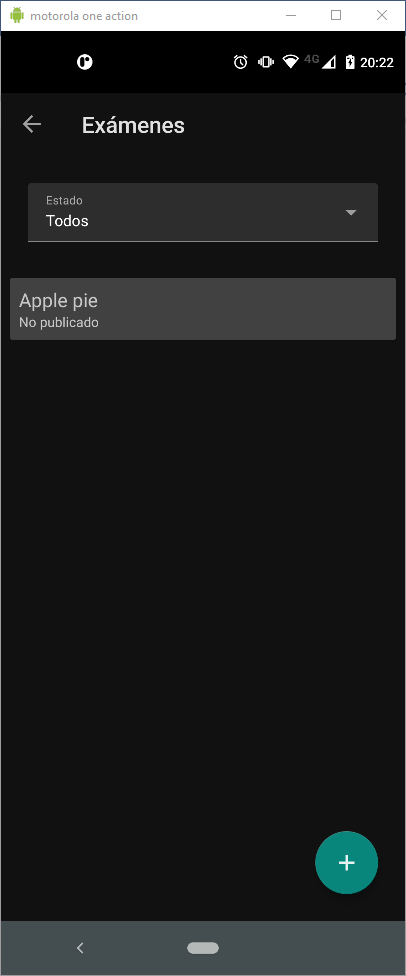
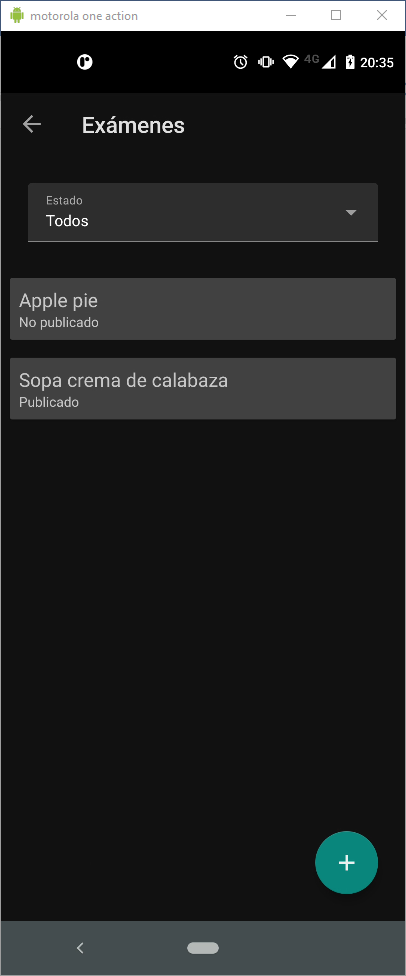
Add multiple descriptions 2

Changed region(s): [[0.0, 0.3689, 0.9754, 0.4303], [0.9458, 0.0615, 0.9754, 0.0922]]

diff --git a/index.md b/index.md
@@ -63,6 +63,18 @@ También se puede agregar colaboradores. Al presionar boton correspondiente se v
 
 ![login](/screenshots/add_collaborator.png)
 
-El creador del curso también puede crear exámenes a ser resueltos por estudiantes. Dirigiendose a la sección correspondiente, se listarán los exámenes creados para el curso.
+El creador del curso también puede crear exámenes a ser resueltos por estudiantes. Dirigiendose a la sección correspondiente, se listarán los exámenes creados para el curso, filtrados por su estado.
 
 ![login](/screenshots/exams.png)
+
+El exámen es, básicamente, una serie de preguntas de respuesta libre. Se pueden agregar y quitar preguntas, pero el examen debe tener por lo menos una para poder crearlo.
+
+![login](/screenshots/create_exam.png)
+
+Al completar el formulario, el usuario puede:
+* Crear el examen, en cuyo caso no queda publicado para los estudiantes, puede ser editado y publicado después.
+* Crear y publicar el examen para los estudiantes. No será posible editarlo una vez hecho esto.
+
+Desde el listado de exámenes se puede acceder a un examen particular. Si el examen es publicado, solo se puede visualizarlo. Caso contrario, puede ser editado y guardado o también publicado (el proceso es idéntico al de creación).
+
+![login](/screenshots/view_exam.png)
